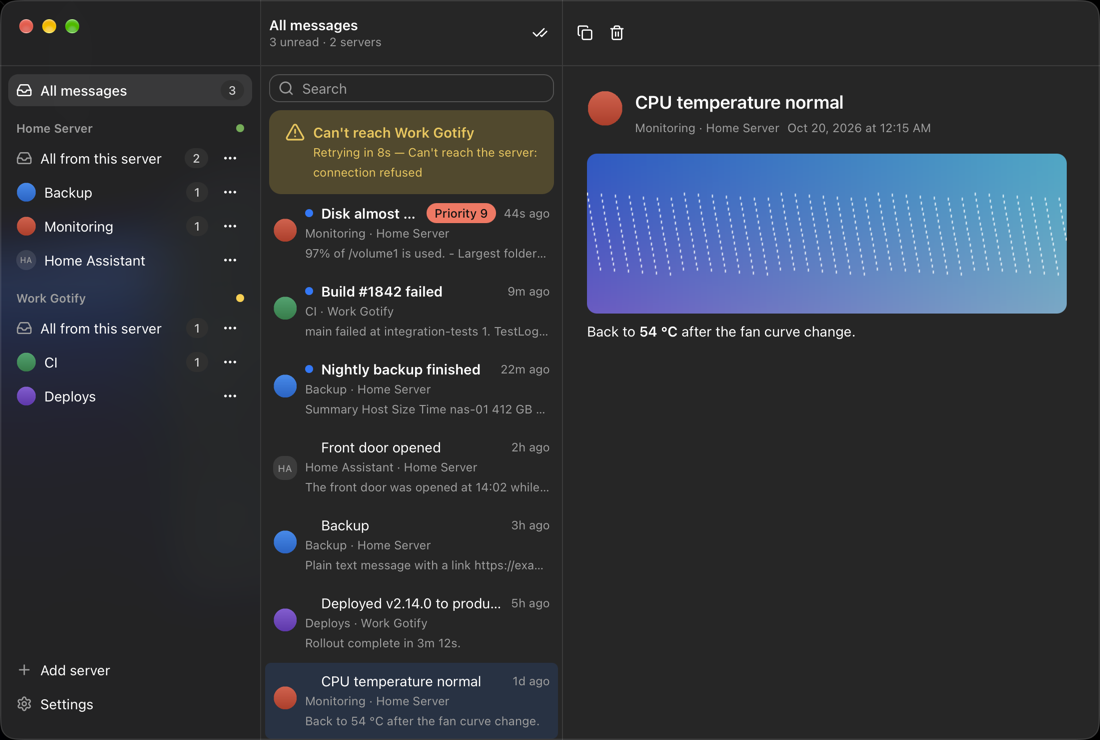
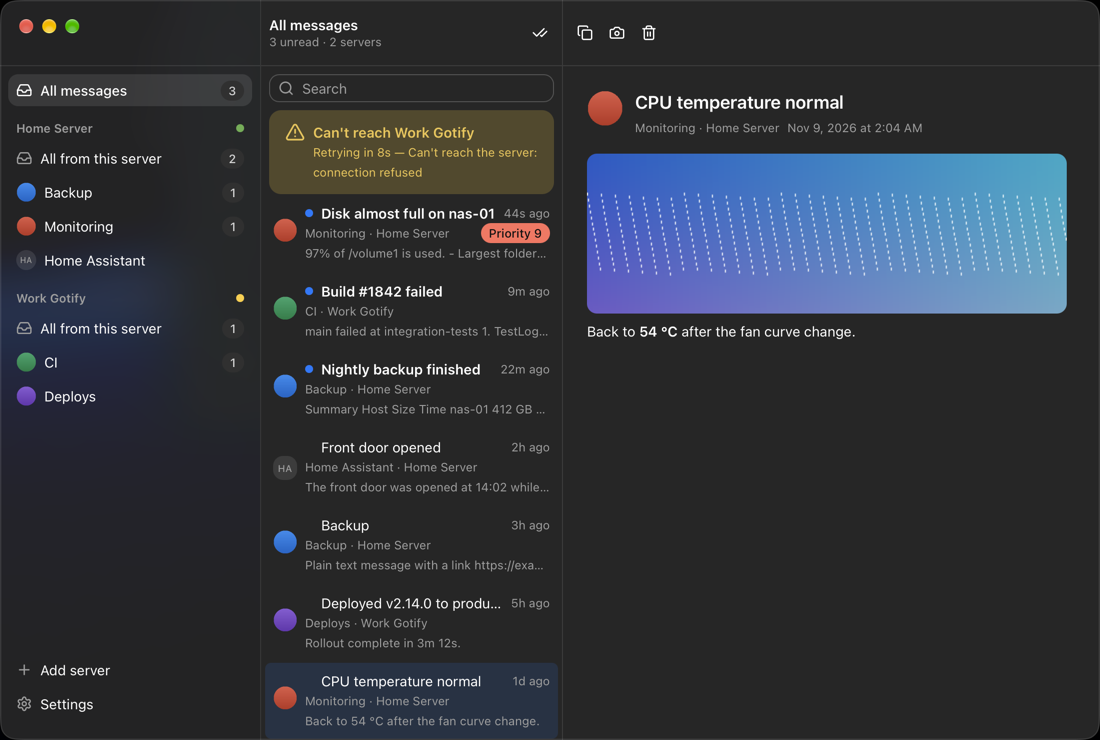
Quiet the sidebar's menu buttons and give urgent titles their room
- A sidebar row's menu button shows under the pointer, on keyboard focus
  and while its menu is open, in the place of the unread count, which now
  sits at the row's edge. Touch keeps the button beside the count.
- The priority label of a message moved from the title's line to the
  line below, so it no longer truncates the title.
- The group titles in Settings line up with their settings.
- The macOS README screenshots show the new sidebar; the Windows ones
  still show the menu buttons.

Claude-Session: https://claude.ai/code/session_017SEjeEyaNAtcdqhASNuxfa

Changed region(s): [[0.3709, 0.2486, 0.4945, 0.3419], [0.7109, 0.1554, 0.8345, 0.1865], [0.5564, 0.0311, 0.6182, 0.0622]]

diff --git a/frontend/src/Sidebar.tsx b/frontend/src/Sidebar.tsx
@@ -28,8 +28,13 @@ export interface ServerActions {
   moveApp(sv: Server, appId: number, beforeId: number): Promise<void>;
 }
 
+/** A row's unread count. The row's menu button takes its place under the pointer (app.css). */
 function count(n: number) {
-  return n > 0 ? <Badge label={n > 999 ? "999+" : n} /> : undefined;
+  return n > 0 ? (
+    <span className="sidenav-end">
+      <Badge label={n > 999 ? "999+" : n} />
+    </span>
+  ) : undefined;
 }
 
 export function statusText(t: Messages, sv: Server, now: number): string {
@@ -125,7 +130,15 @@ function ServerApps({
               icon={<AppAvatar serverId={sv.id} app={a} size="xsm" />}
               isSelected={isSel(sv.id, a.id)}
               onClick={() => go({ page: "messages", serverId: sv.id, appId: a.id })}
-              endContent={a.muted ? <Icon icon={BellOffIcon} size="sm" color="secondary" label={t.muted} /> : count(a.unread)}
+              endContent={
+                a.muted ? (
+                  <span className="sidenav-end">
+                    <Icon icon={BellOffIcon} size="sm" color="secondary" label={t.muted} />
+                  </span>
+                ) : (
+                  count(a.unread)
+                )
+              }
               actions={
                 <MoreMenu
                   size="sm"

diff --git a/frontend/src/MessageRow.tsx b/frontend/src/MessageRow.tsx
@@ -84,13 +84,16 @@ export const MessageRow = memo(function MessageRow({
             <Text weight={unread ? "semibold" : "normal"} maxLines={1} hasTruncateTooltip={false} wordBreak="break-word" className="selectable grow">
               {title}
             </Text>
-            {msg.priority >= 8 && <Badge variant="error" label={t.priority(msg.priority)} className="no-shrink" />}
             <Timestamp value={msg.date} format="relative_short" isLive hasTooltip={false} className="no-shrink" />
           </HStack>
-          {meta && (
-            <Text type="supporting" maxLines={1} hasTruncateTooltip={false}>
-              {meta}
-            </Text>
+          {/* The priority sits here, so that it does not take the title's room. */}
+          {(meta || msg.priority >= 8) && (
+            <HStack gap={2} vAlign="center">
+              <Text type="supporting" maxLines={1} hasTruncateTooltip={false} className="grow">
+                {meta}
+              </Text>
+              {msg.priority >= 8 && <Badge variant="error" label={t.priority(msg.priority)} className="no-shrink" />}
+            </HStack>
           )}
           {preview && (
             <Text type="supporting" color="secondary" maxLines={1} hasTruncateTooltip={false}>

diff --git a/frontend/src/app.css b/frontend/src/app.css
@@ -280,6 +280,34 @@ html[data-material="sidebar"] .astryx-app-shell [role="main"] {
   border-bottom: 1px solid var(--color-border);
 }
 
+/* A row's menu button shows under the pointer, on keyboard focus and while its
+   menu is open, in the place of the unread count, which otherwise sits at the
+   row's edge like the count of "All messages". Without a pointer that hovers
+   (touch) the button stays, beside the count. */
+@media (hover: hover) {
+  .astryx-side-nav-item:has(> span > [aria-haspopup="menu"]) {
+    position: relative;
+  }
+
+  .astryx-side-nav-item > span:has(> [aria-haspopup="menu"]) {
+    position: absolute;
+    inset-inline-end: 8px;
+    opacity: 0;
+  }
+
+  .astryx-side-nav-item:hover > span:has(> [aria-haspopup="menu"]),
+  .astryx-side-nav-item:has(:focus-visible) > span:has(> [aria-haspopup="menu"]),
+  .astryx-side-nav-item > span:has(> [aria-expanded="true"]) {
+    opacity: 1;
+  }
+
+  .astryx-side-nav-item:hover .sidenav-end,
+  .astryx-side-nav-item:has(:focus-visible) .sidenav-end,
+  .astryx-side-nav-item:has(> span > [aria-expanded="true"]) .sidenav-end {
+    visibility: hidden;
+  }
+}
+
 /* An app's row while the pointer drags it over the others. */
 .sidenav-app.dragging {
   position: relative;

diff --git a/frontend/src/SettingsPage.tsx b/frontend/src/SettingsPage.tsx
@@ -57,7 +57,7 @@ function Group({ title, children }: { title: string; children: ReactNode }) {
       <Heading level={2} className="settings-group-title">
         {title}
       </Heading>
-      <Section padding={4} className="settings-group">
+      <Section padding={5} className="settings-group">
         <VStack gap={4}>{children}</VStack>
       </Section>
     </VStack>
